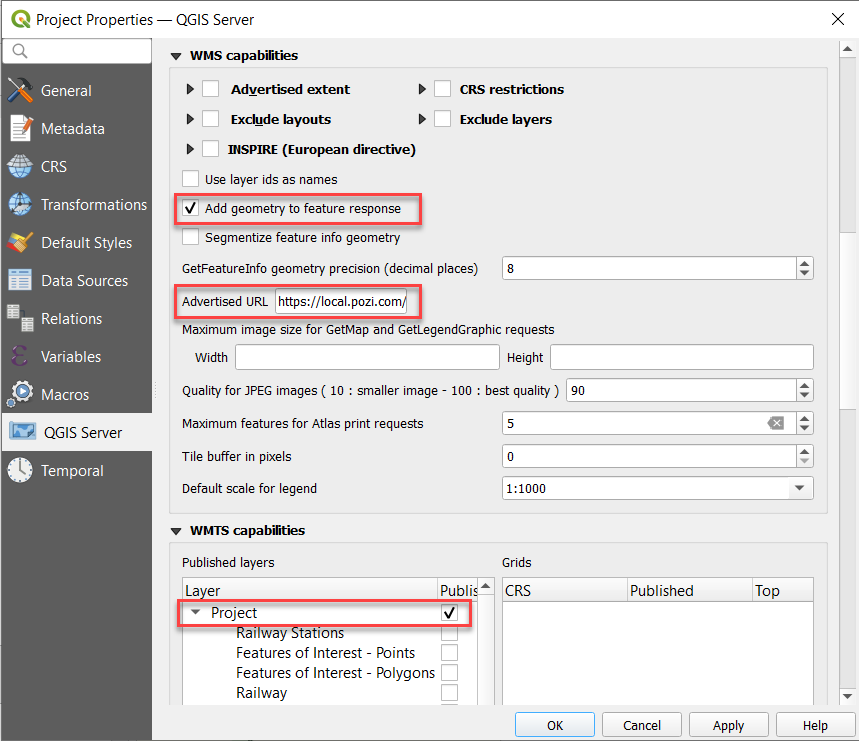
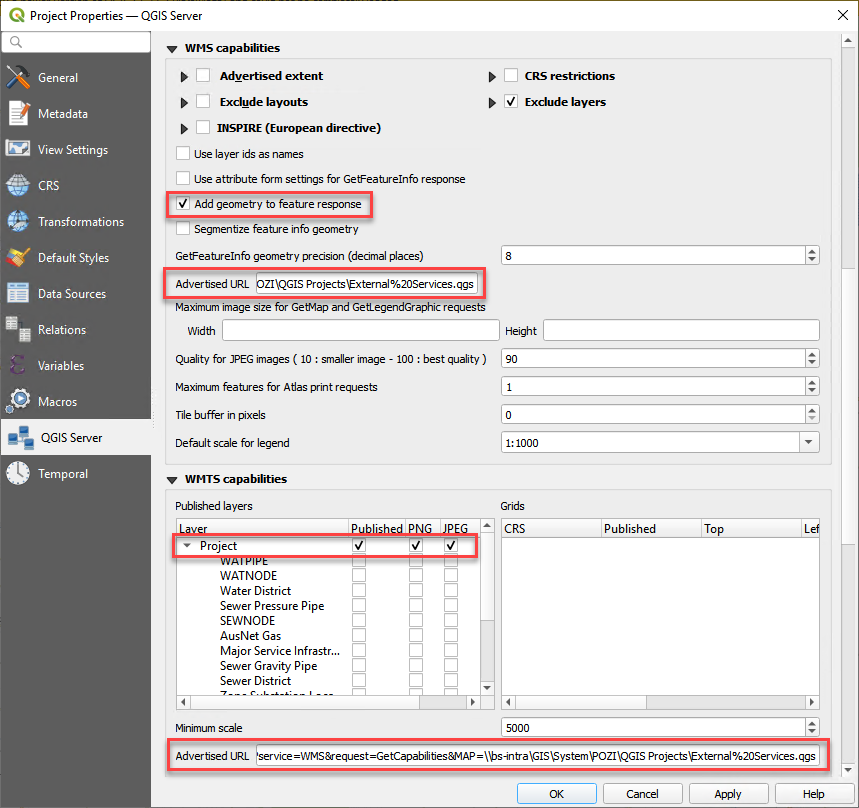
Add instructions to update WMTS settings

diff --git a/administrator-guide/qgis/creating-qgis-projects.md b/administrator-guide/qgis/creating-qgis-projects.md
@@ -36,7 +36,7 @@ Combine the details below:
 
 For example:
 
-https://local.pozi.com/iis/qgisserver?service=WFS&request=GetCapabilities&MAP=C:/Program%20Files%20(x86)/Pozi/userdata/local/property.qgs
+https://local.pozi.com/iis/qgisserver?service=WMS&request=GetCapabilities&MAP=C:/Program%20Files%20(x86)/Pozi/userdata/local/property.qgs
 
 Copy your URL to your clipboard or a blank text document for reference. This URL will be used in subsequent configuration below. Note that the URL will not yet return a valid response until the configuration is complete.
 
@@ -45,16 +45,18 @@ Copy your URL to your clipboard or a blank text document for reference. This URL
 Pozi requires the project to be enabled for WMS.
 
 1. Project > Properties > QGIS Server
-2. update WMS settings
+2. update WMS capabilities settings
    * `Add geometry to feature response`: tick on
-   * `Advertised URL`: enter WMS GetCapabilities address
-     * example: `https://local.pozi.com/iis/qgisserver?service=WMS&request=GetCapabilities&MAP=C:/Program%20Files%20(x86)/Pozi/userdata/local/property.qgs`
+   * `Advertised URL`: enter WMS GetCapabilities URL
+3. update WMTS capabilities settings
+   * `Published layers > Project > Published`: tick on
+   * `Advertised URL`: enter WMS GetCapabilities URL
 
 ![QGIS Project Properties WMS Configuration](./img/qgis-project-properties-wms-configuration.png){style="width:600px"}
 
-3. OK
-4. Project > Save  (`Ctrl` + `S`)
-5. test that you get a valid WMS/WFS GetCapabilities response by entering the GetCapabilities request in your browser. 
+4. OK
+5. Project > Save  (`Ctrl` + `S`)
+6. test that you get a valid WMS GetCapabilities response by entering the GetCapabilities request in your browser. 
 
 ## Enable WFS Service
 
@@ -75,11 +77,11 @@ Disadvantages:
 As a guideline, use WFS for layers with fewer than 5-10K features.
 
 1. Project > Properties > QGIS Server
-2. update the WFS settings:
-   * `Advertised URL`: enter WFS GetCapabilities
-     * example: `https://local.pozi.com/iis/qgisserver?service=WFS&version=1.1.0&request=GetCapabilities&MAP=C:/Program%20Files%20(x86)/Pozi/server/data/local/property.qgs`
+2. update the WFS capabilities settings:
+   * `Advertised URL`: enter WFS GetCapabilities (similar to WMS request above, but with `WFS` substituted in place of `WMS`)
 3. OK
 4. Project > Save (`Ctrl` + `S`)
+5. test that you get a valid WFS GetCapabilities response by entering the GetCapabilities request in your browser.
 
 ## Exclude Base Layer
 
